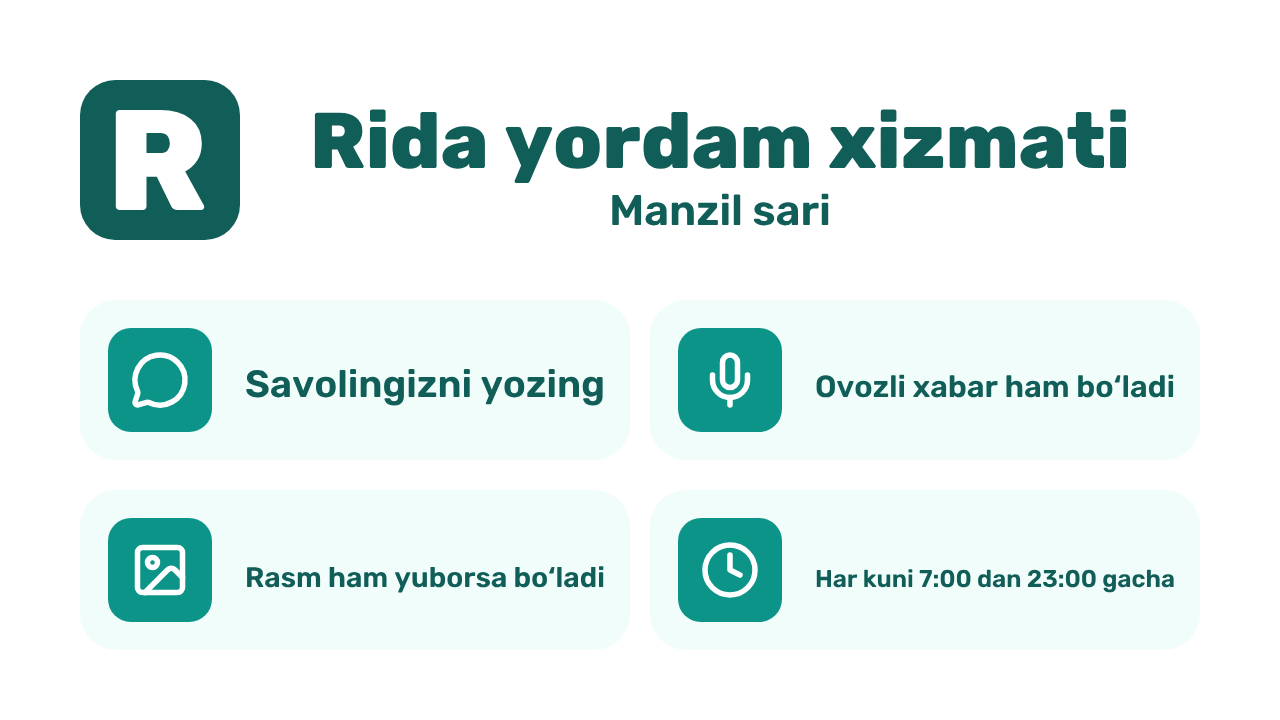
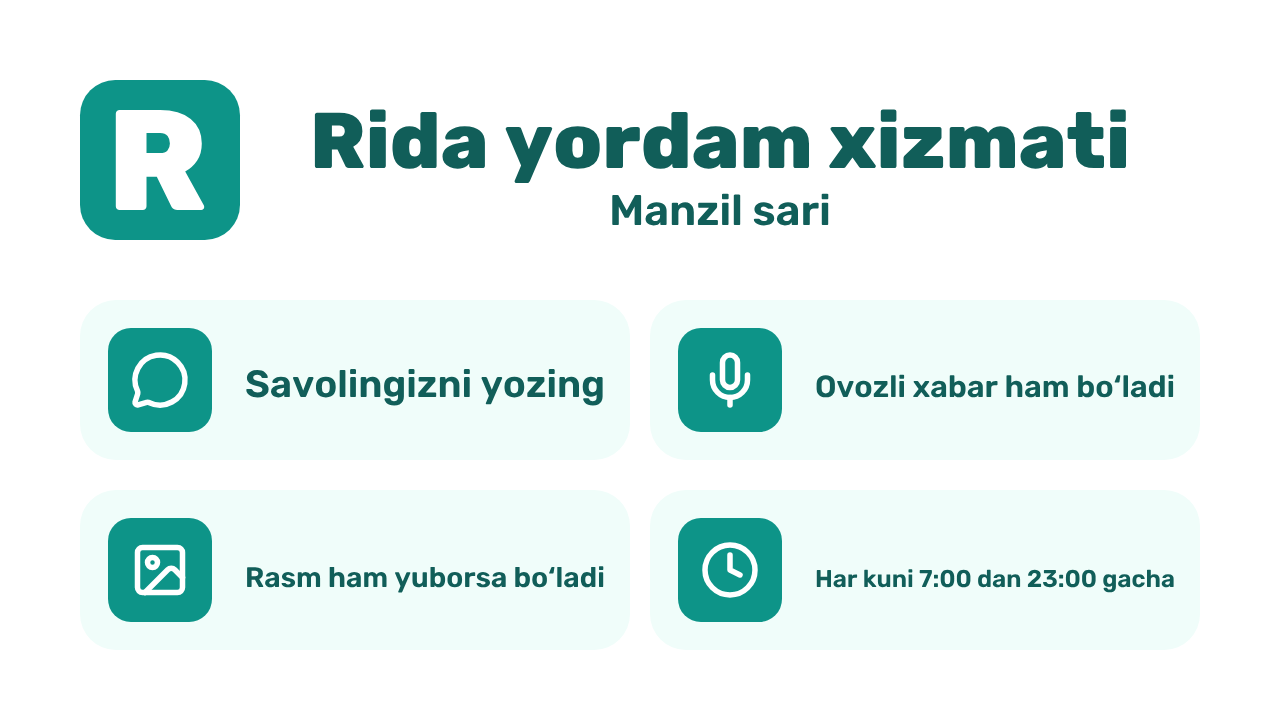
Приветственные фото ботов: логотип по таблице docs/36, адрес с версией (уроки №311, №312)
- Плитка логотипа в углу фото после /start берёт сочетание из таблицы docs/36:
  попутчик 2 (белая плитка, бирюзовая R), поддержка 1 (бирюзовая плитка, белая R),
  водитель 5 (как было). Решение владельца 18.10.2026.
- Бот шлёт фото по адресу с версией его байтов (brands/rida/welcomes.json,
  пишет pnpm bot): Telegram хранит фото по адресу, новое фото не прячется за старым.
- pnpm bot снова работает: имя главного бота берётся из прода (lib/production.mjs).
- Тест: каждая плитка в сочетании таблицы, версия совпадает с файлом сайта.
- docs/36, docs/38, урок №312.

Claude-Session: https://claude.ai/code/session_017FSsNw3bjZgBbKY1ueaesh

Changed region(s): [[0.0625, 0.0917, 0.1875, 0.3361]]

diff --git a/apps/backend/src/bots/webhook-routes.test.ts b/apps/backend/src/bots/webhook-routes.test.ts
@@ -21,7 +21,9 @@ describe('POST /telegram/:role', () => {
   it('greets a passenger with the picture and what the brand gives a passenger (03.10.2026)', async () => {
     const reply = (await (await send('passenger', start())).json()) as PhotoReply;
     expect(reply).toMatchObject({ method: 'sendPhoto', chat_id: 42 });
-    expect(reply.photo).toBe(`https://${brand.domain}/bot/passenger-welcome.png`);
+    expect(reply.photo).toBe(
+      `https://${brand.domain}/bot/passenger-welcome.png?v=${brand.welcomes.passenger}`,
+    );
     expect(reply.caption.startsWith(`Assalomu alaykum! ${brand.name}: `)).toBe(true);
     expect(reply.caption).toContain('Yoʻlovchi sifatida siz:');
     expect(reply.reply_markup.inline_keyboard[0]?.[0]).toEqual({
@@ -99,7 +101,7 @@ describe('POST /telegram/:role', () => {
   it('greets a driver with the picture, what the brand gives and the bonus of the brand (G34)', async () => {
     const reply = (await (await send('driver', start())).json()) as PhotoReply;
     expect(reply).toMatchObject({ method: 'sendPhoto', chat_id: 42 });
-    expect(reply.photo).toBe(`https://${brand.domain}/bot/driver-welcome.png`);
+    expect(reply.photo).toBe(`https://${brand.domain}/bot/driver-welcome.png?v=${brand.welcomes.driver}`);
     expect(reply.caption.startsWith(`Assalomu alaykum! ${brand.name}: `)).toBe(true);
     expect(reply.caption).toContain(`Boshlash uchun ${formatMoney(brand.promo.amount)} bonus.`);
     expect(reply.reply_markup.inline_keyboard).toEqual([

diff --git a/apps/backend/src/bots/main-bot.test.ts b/apps/backend/src/bots/main-bot.test.ts
@@ -23,7 +23,7 @@ describe('the main bot of the waitlist (G83, docs/181)', () => {
   it('greets with the picture, the three questions and «Roʻyxatga yozilish»', async () => {
     const answer = await welcome(41, '/start ad-k7f2qx');
     expect(answer.method).toBe('sendPhoto');
-    expect(answer.photo).toBe(`https://${brand.domain}/bot/main-welcome.png`);
+    expect(answer.photo).toBe(`https://${brand.domain}/bot/main-welcome.png?v=${brand.welcomes.main}`);
     expect(answer.caption).toContain('Assalomu alaykum, Ali! 👋');
     expect(answer.caption).toContain('🔎 Guruhlardan kerakli eʼlonni topish qiyinmi?');
     expect(answer.reply_markup.inline_keyboard[0]?.[0]?.web_app?.url).toBe(`https://main.${brand.domain}/`);
@@ -52,7 +52,9 @@ describe('the main bot of the waitlist (G83, docs/181)', () => {
       .run();
     const answer = await welcome(44, '/start');
     expect(answer.caption).toContain('ochildi');
-    expect(answer.photo).toBe(`https://${brand.domain}/bot/main-open-welcome.png`);
+    expect(answer.photo).toBe(
+      `https://${brand.domain}/bot/main-open-welcome.png?v=${brand.welcomes['main-open']}`,
+    );
     const urls = answer.reply_markup.inline_keyboard.flat().map((button) => button.url ?? '');
     expect(urls).toContain(`https://t.me/${brand.bots.passenger}?startapp=__main`);
     expect(urls).toContain(`https://t.me/${brand.bots.driver}?startapp=__main`);

diff --git a/apps/backend/src/bots/start-reply.ts b/apps/backend/src/bots/start-reply.ts
@@ -1,15 +1,15 @@
-import { appHost, type BrandConfig } from '@platform/brands';
+import { appHost, type BotWelcome, type BrandConfig } from '@platform/brands';
 import { createI18n, DEFAULT_LOCALE } from '@platform/i18n';
 import type { BotRole } from './bot-roles';
 
 const { t, formatMoney } = createI18n(DEFAULT_LOCALE);
 // A driver who came from the passenger bot already knows Rida: another first line (G34).
 const FROM_PASSENGER = 'from_passenger';
-// The welcome pictures of the public bots, served by the landing (brand-kit/landing/bot.mjs).
+// The welcome pictures of the public bots, served by the landing (brand-kit/landing/bot.mjs) under the
+// version of their look: Telegram keeps a picture by its address (lesson №311).
 // main-open: the main bot when the owner closed the list (G83, docs/181), without «Tez orada».
-type Welcome = 'passenger' | 'driver' | 'support' | 'main' | 'main-open';
-export const welcomePicture = (brand: BrandConfig, role: Welcome) =>
-  `https://${brand.domain}/bot/${role}-welcome.png`;
+export const welcomePicture = (brand: BrandConfig, role: BotWelcome) =>
+  `https://${brand.domain}/bot/${role}-welcome.png?v=${brand.welcomes[role]}`;
 
 // A close person opens the passenger Mini App to follow a trip, no registration (docs/43).
 const FOLLOW_PAYLOAD = /^follow_([A-Za-z0-9_-]{43})$/u;

diff --git a/brands/brand-config.ts b/brands/brand-config.ts
@@ -89,6 +89,9 @@ export type BrandChannel = {
   readonly page?: string;
 };
 
+// The pictures of the first message of the public bots (G34, G83): brand-kit/landing/bot.mjs makes them.
+export type BotWelcome = 'passenger' | 'driver' | 'support' | 'main' | 'main-open';
+
 type BotNames = {
   readonly passenger: string;
   readonly driver: string;
@@ -114,6 +117,8 @@ export type BrandConfig = PeopleRules & {
   readonly app?: AppName; // set by brandForApp: the colors and the drawings of one Mini App
   // Telegram usernames of the bots (docs/02, docs/46): deep links between them; support answers people (docs/50).
   readonly bots: BotNames;
+  // The version of every welcome picture, its own bytes: a new look, a new address (lesson №311).
+  readonly welcomes: Readonly<Record<BotWelcome, string>>;
   // An environment of the team only (owner, 17.10.2026, docs/179): anyone outside the team is sent
   // to these bots of production; null where people are welcome.
   readonly teamOnly: BotNames | null;

diff --git a/brands/rida/brand.config.ts b/brands/rida/brand.config.ts
@@ -1,5 +1,7 @@
 import type { BrandBase } from '../brand-config';
 import { theme } from './theme.ts';
+// The versions of the welcome pictures of the bots: pnpm bot of the brand kit writes them (docs/38).
+import welcomes from './welcomes.json' with { type: 'json' };
 
 // The address, the bots and the channels differ by environment: environments.ts (docs/179).
 export const brandConfig: BrandBase = {
@@ -11,6 +13,7 @@ export const brandConfig: BrandBase = {
   promo: { amount: 500_000, grants: 3, days: 30, windowDays: 90 },
   theme,
   regionPhotos: true,
+  welcomes,
   pricing: 'per-km',
   // docs/29: 3 times the usual hour and at least 10 errors; a step 20 points worse than the week
   // from at least 20 people; the same signal once in 6 hours.

diff --git a/e2e/stand/first-contact.spec.ts b/e2e/stand/first-contact.spec.ts
@@ -38,7 +38,7 @@ test('the driver bot: before «Start», the welcome, from the passenger bot, any
   await beforeStart(page, DRIVER_BOT, t('bot.profile.driver.description'));
   await shot(page, '01-bot-before-start');
   const welcome = await say('driver', NEWCOMERS.android, '/start');
-  expect(welcome.photo).toMatch(/\/bot\/driver-welcome\.png$/u);
+  expect(welcome.photo).toMatch(/\/bot\/driver-welcome\.png\?v=[0-9a-f]{8}$/u);
   expect(welcome.caption).toMatch(/500\s000/u);
   expect(buttonsOf(welcome)).toEqual([t('bot.open')]);
   await answered(page, DRIVER_BOT, '/start', welcome);

diff --git a/apps/backend/src/bots/support-bot.test.ts b/apps/backend/src/bots/support-bot.test.ts
@@ -24,7 +24,7 @@ describe('the support bot', () => {
     };
     expect(welcome).toMatchObject({
       method: 'sendPhoto',
-      photo: `https://${brand.domain}/bot/support-welcome.png`,
+      photo: `https://${brand.domain}/bot/support-welcome.png?v=${brand.welcomes.support}`,
     });
     expect(welcome.caption).toContain(`Bu ${brand.name} yordam xizmati.`);
     expect(welcome.caption).toContain('har kuni soat 7:00 dan 23:00 gacha');

diff --git a/brands/index.ts b/brands/index.ts
@@ -6,6 +6,7 @@ export type {
   AlertRules,
   BrandChannel,
   BrandColors,
+  BotWelcome,
   BrandConfig,
   CommissionRule,
   EnvironmentName,

diff --git a/docs/190-lessons-learned-17.md b/docs/190-lessons-learned-17.md
@@ -29,3 +29,10 @@
 - **Причина:** сервер сохранял новое фото верно, но адрес фото не меняется, а телефон хранил копию час, админка 5 минут. Кнопки карточки в боте знали только человека, и карточка старого фото решала судьбу нового.
 - **Следствие:** модератор мог одобрить фото, которого не видел.
 - **Урок:** то, что меняется, никогда не кешируется под тем же адресом без версии: своё фото после смены грузится мимо кеша, фото на проверке не кешируется; кнопка решения несёт время фото.
+
+### №312. Плитка логотипа на приветственных фото была не по таблице
+
+- **Что случилось:** 18.10.2026, день запуска: владелец спросил, сходятся ли картинки ботов с утверждённым логотипом. На фото после /start у попутчика и поддержки логотип был тёмно-бирюзовой плиткой с белой «R». Такого сочетания нет в таблице `36`.
+- **Причина:** 03.10 (G35) я сделал фото попутчика и поддержки из фото водителя и оставил его плитку. Макета не было, по таблице `36` я фото не сверял.
+- **Следствие:** первое фото, которое видит человек, две недели шло в ботах с логотипом не по правилам бренда.
+- **Урок:** любой логотип на любой картинке берёт сочетание из таблицы `36` в коде (`COMBOS`), а тест сверяет каждую картинку. Новая картинка с логотипом сразу получает строку в таблице «где нужен логотип».

diff --git a/docs/38-brand-kit.md b/docs/38-brand-kit.md
@@ -58,7 +58,7 @@
 | Боты Telegram | `telegram/`: 4 аватара (R и знак роли, у поддержки свои цвета, `lib/avatar.mjs`), 4 картинки описания 640 × 360, экран загрузки (SVG, один контур) |
 | Каналы | `telegram/channels/`: 13 аватаров, 13 картинок к постам (`37`) |
 | Сайт | `web/`: favicon (svg, ico), иконка iPhone, 192, 512, превью ссылки 1200 × 630 |
-| Боты (G34) | `pnpm bot`: картинки приветствия водителя, попутчика и поддержки `driver-welcome.png`, `passenger-welcome.png`, `support-welcome.png` и JPG-аватары 4 ботов в `brands/rida/landing/bot/`; сайт отдаёт их, бот шлёт картинку по адресу, аватары ставит `/telegram/setup` (`setMyProfilePhoto`) |
+| Боты (G34) | `pnpm bot`: картинки приветствия водителя, попутчика и поддержки `driver-welcome.png`, `passenger-welcome.png`, `support-welcome.png` и JPG-аватары 4 ботов в `brands/rida/landing/bot/`; сайт отдаёт их, бот шлёт картинку по адресу с версией из `brands/rida/welcomes.json` (её пишет `pnpm bot`, урок №311), аватары ставит `/telegram/setup` (`setMyProfilePhoto`) |
 | Лендинг | `pnpm landing`: картинки из сцен ролика в `brands/rida/landing/art/` и дороги карты `data/hero-roads.json` (`59`, `60`) |
 | Шрифт сайта | `python3 tools/web-font.py` (нужен `fonttools`, `brotli`): Rubik 300…900 в `brands/rida/landing/fonts/brand.woff2`, знак ʻ из глифа ‘ (`60`) |
 | Соцсети | `social/`: посты «Tez orada», запуск, «Mashinada ayol bor»; сторис для водителей и «Yangi safar» |

diff --git a/docs/36-logo.md b/docs/36-logo.md
@@ -62,6 +62,7 @@
 | Аватары 13 каналов | Номер «код \| R» и название области | 1, белый номер, чёрный код | 640 × 640 | PNG |
 | Экран загрузки Mini App (3 бота) | «R» без фона, один `<path>`, без `fill` | BotFather, «Configure Splash Screen»: фон цвета Mini App, «R» белая, как наш сплэш (`121` §4, решение владельца 06.10) | 512 × 512 | SVG до ~5 КБ |
 | Картинка описания бота (до /start) | «R» и слоган на фоне | как у бота | 640 × 360 | PNG |
+| Картинка приветствия бота (после /start) | Скруглённый квадрат в углу | сочетание, видное на цвете бота: попутчик 2, водитель 5, поддержка 1 (решение владельца 18.10, урок №312) | 160 в 1280 × 720 | PNG |
 | Сплэш-экран Mini App (каждый запуск) | Скруглённый квадрат + «Rida» + «Manzil sari» на фоне цвета Mini App | 2, 4, 7 | вектор в `index.html` | SVG |
 | Экран приветствия Mini App | Скруглённый квадрат + «Rida» + «Manzil sari» | 1 (у водителя 6); форма, размер и «R» одинаковые, разные только цвета (решение владельца 06.10) | вектор | SVG |
 | Favicon сайта | Скруглённый квадрат | 1 | 16, 32, 48 + SVG | ICO, SVG |
